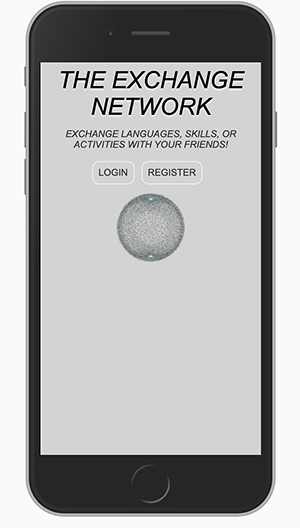
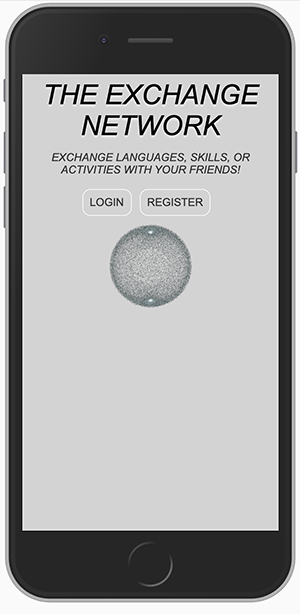
mobile

Changed region(s): [[0.0, 0.0, 1.0, 1.0]]

diff --git a/README.md b/README.md
@@ -50,5 +50,5 @@ grey, #aaaaaa </br>
 ![screenshot](screenshot_3.png)
 
 <p align="center">
-<img width="300" height="528" src="mobile.png">
+<img width="300" height="614" src="mobile.jpg">
 </p>
